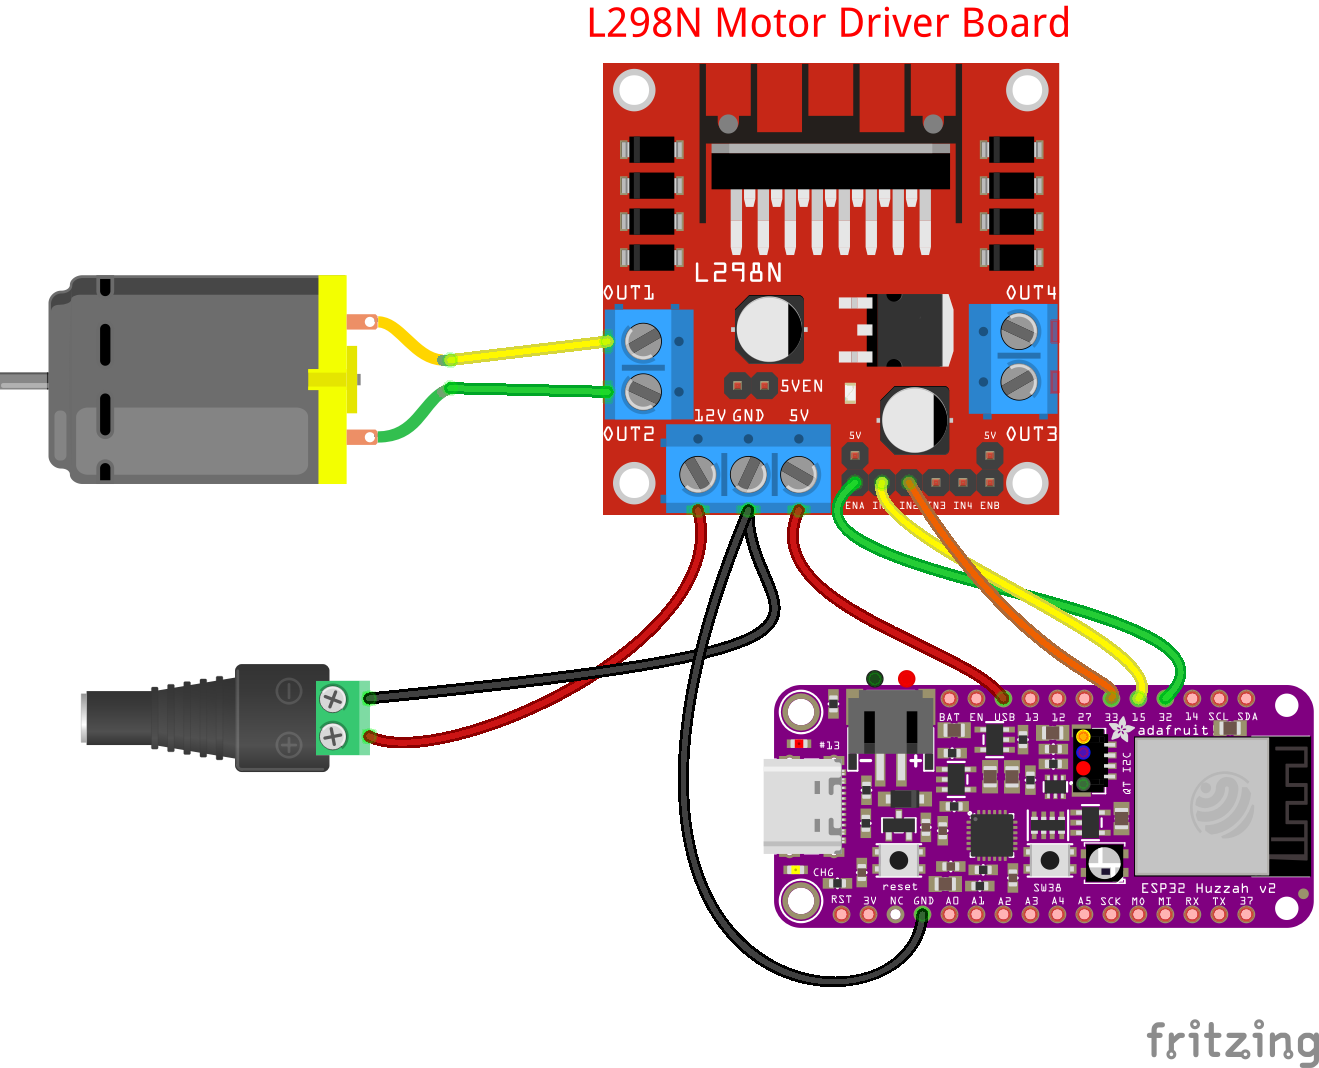
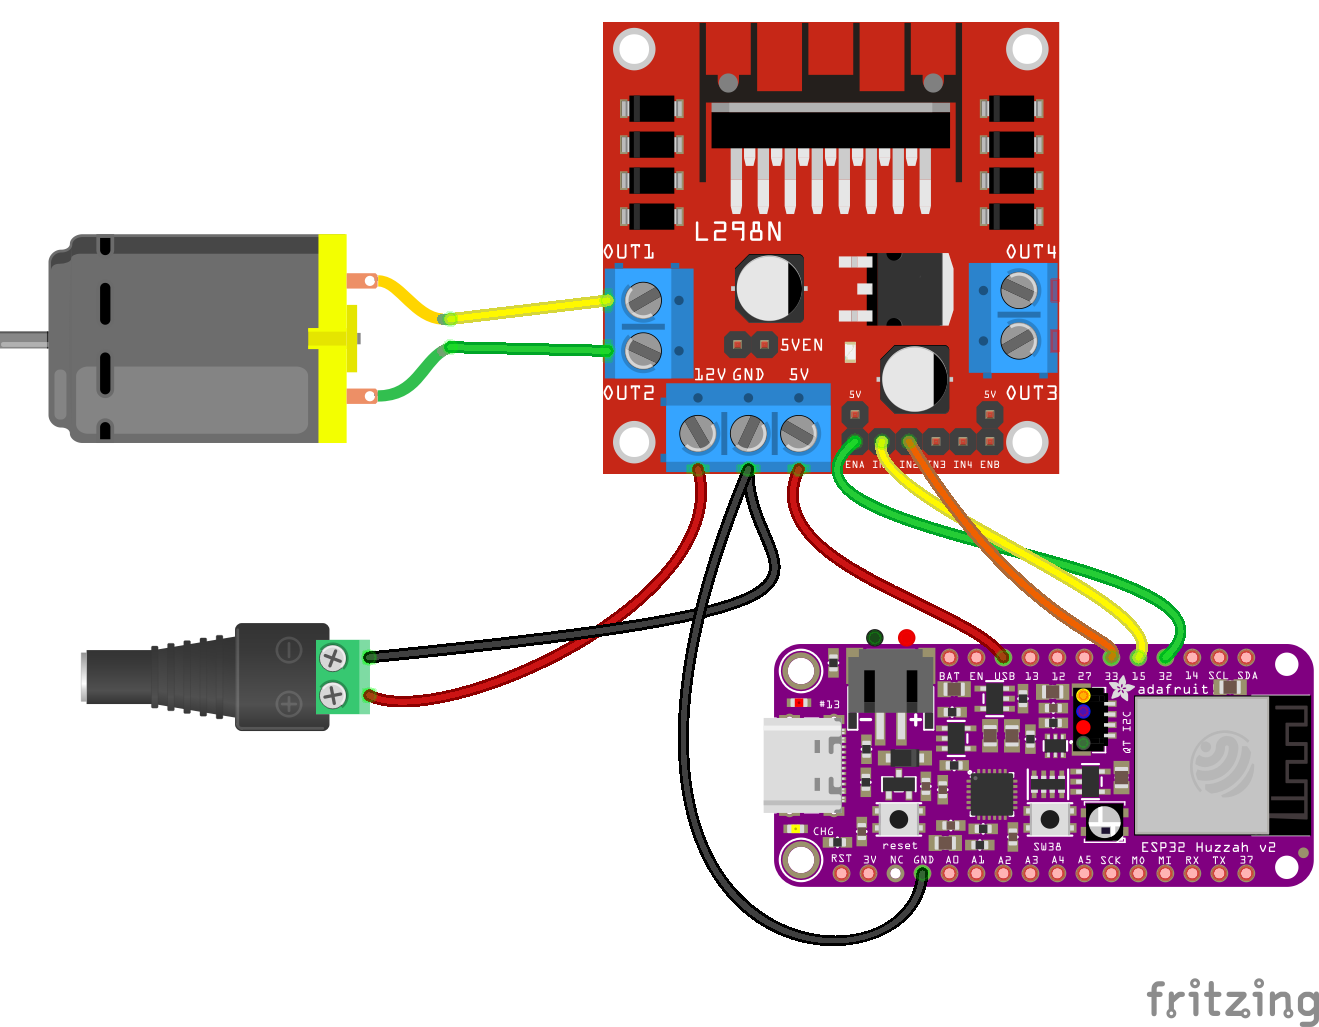
hbridge

diff --git a/README.md b/README.md
@@ -574,10 +574,14 @@ notes:
   - and it can run as low as 4.5v
 
 - since motors take a significant amount of current, we'll use a separate power source for the motor(s)
-  - this external source can be a power supply or a battery pack
+  - this external source can be a power supply or a battery pack (or USB for SMALL motors)
+  - the microcontroller will send data to the Hbridge to switch on/off the larger voltage/current
 
+### L298N H-Bridge Motor Driver with 5v USB power
 
-### External Power Supply - L298N H-Bridge Motor Driver
+  <img src="/examples/ESP32V2_DCmotor_Hbridge/ESP32V2_Hbridge_1Motor_5V.png" width="750">
+
+### L298N H-Bridge Motor Driver with External Power Supply
 
   <img src="/images/powerSupply.jpg" width="350">
 
@@ -588,9 +592,11 @@ notes:
 
 - the L298N can get the 5v it needs to operate from an onboard voltage regulator
     - most voltage regulators need about 2v more than their output voltage so the minimum voltage is 7v
-- we can also use the L298's onboard voltage regulator to provide 5V for our Arduino
+<!-- - we can also use the L298's onboard voltage regulator to provide 5V for our ESP32 -->
 
-<img src="/examples/ESP32V2_DCmotor_Hbridge/ESP32V2_Hbridge_1Motor_powerSupply_bb.png" width="750">
+<img src="/examples/ESP32V2_DCmotor_Hbridge/ESP32V2_Hbridge_1Motor_7V.png" width="750">
+
+
 
 
 *******************************************************************************
